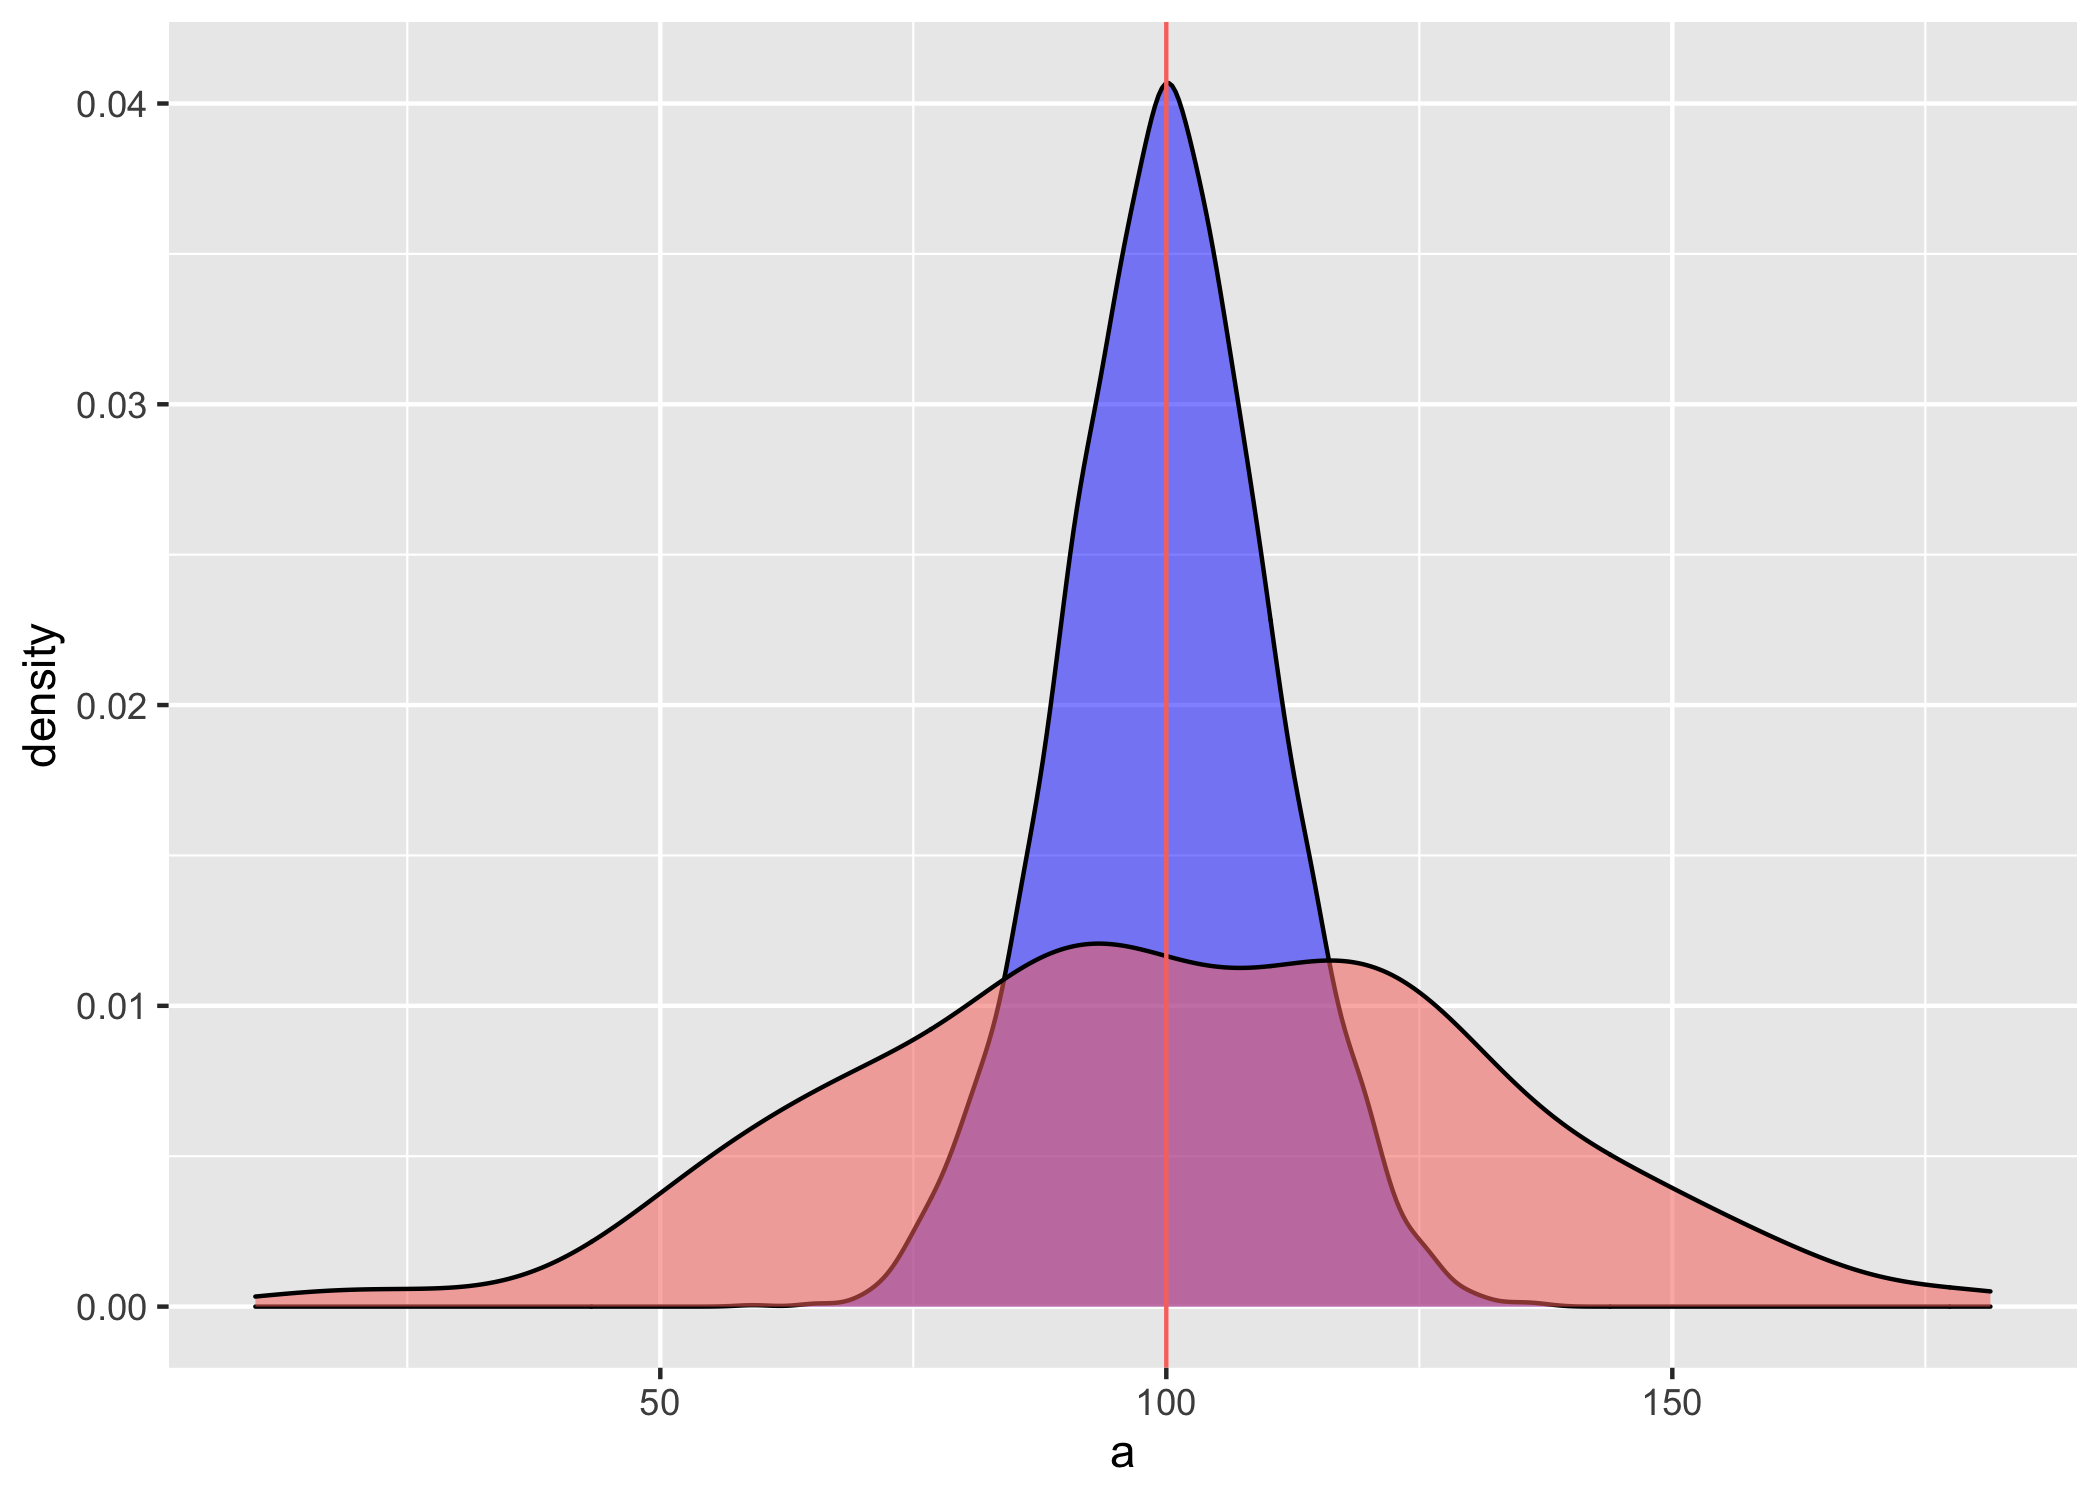
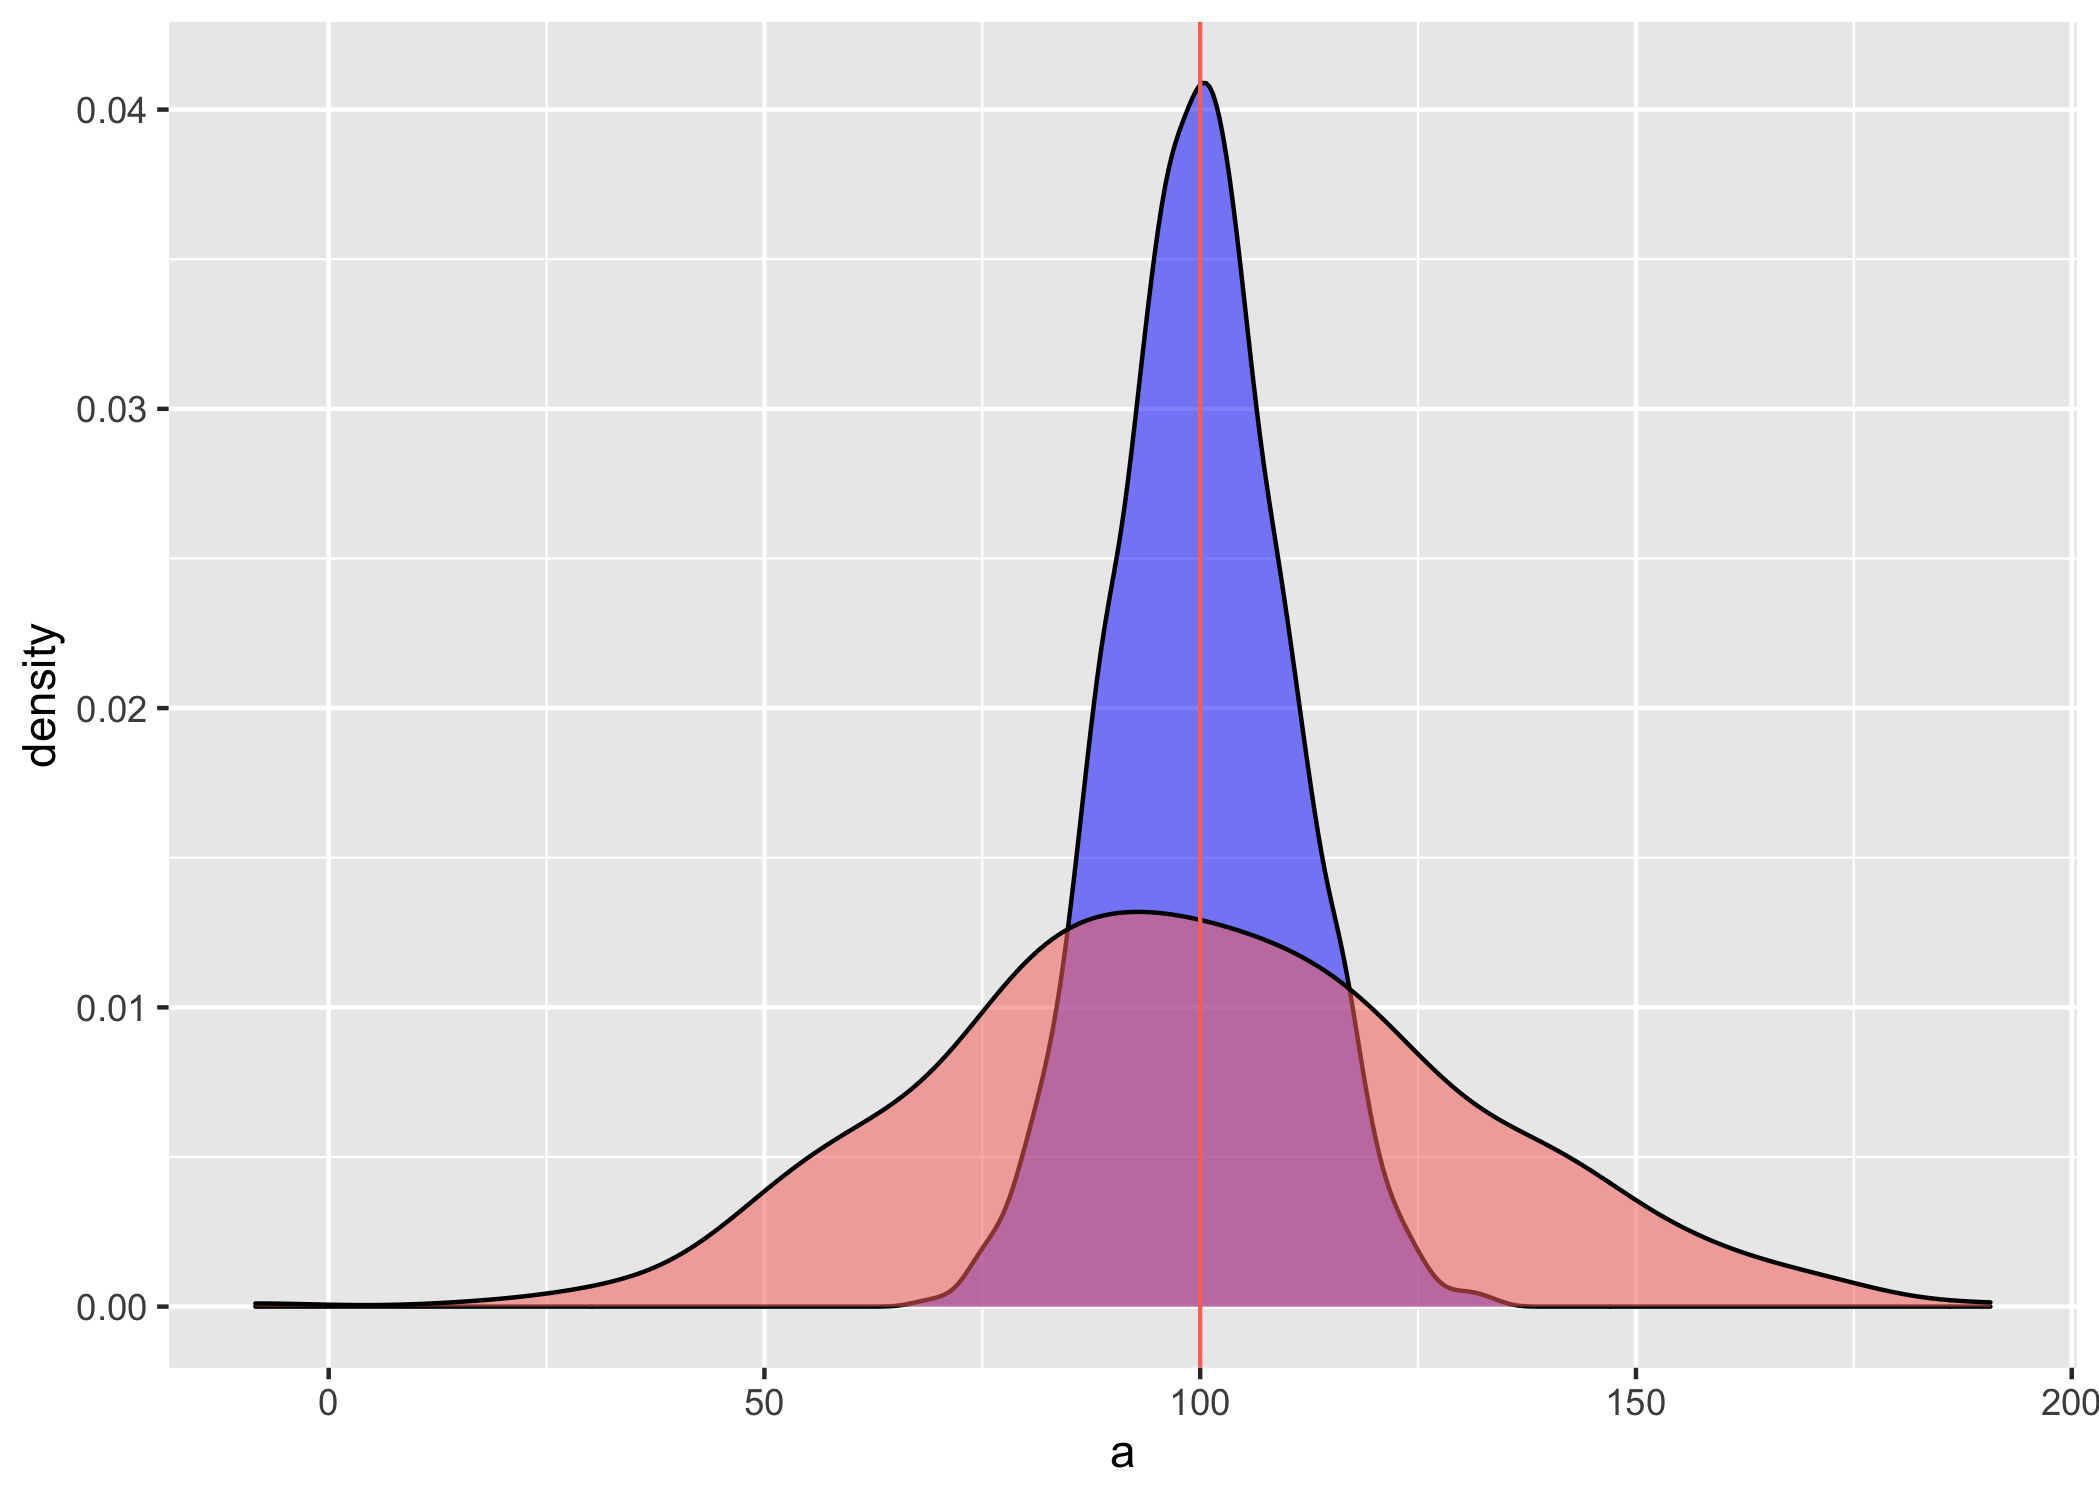
T4

diff --git a/T4_Medidas_dispersión.html b/T4_Medidas_dispersión.html
@@ -506,7 +506,7 @@ library(tidyverse)</code></pre>
 <div id="vizualizando-la-dispersión" class="section level1">
 <h1>Vizualizando la dispersión</h1>
 <p>Primero miramos un gráfico donde tenemos datos donde el promedio es igual pero la dispersiones son diferentes. Lo que uno observa es que en la distribución azul los datos son más similares uno al otro y la distribución roja los valores son más diferentes. En el primer conjunto de datos se usa 5000 valores con un promedio de 100 y una desviación estándar de 10, en el segundo se produce un conjunto de datos de 500 valores con un promedio de 100 y una desviación estándar de 30.</p>
-<pre class="r"><code>set.seed(869870) # esto es para que los valores se queda igual a cada vez que se corre el analisis
+<pre class="r"><code>set.seed(8690) # esto es para que los valores se queda igual a cada vez que se corre el analisis
 a=rnorm(5000, 100, 10)
 a=data.frame(a)
 b=rnorm(500, 100, 30)
@@ -529,9 +529,9 @@ El proceso de Investigación
 <h1>El rango</h1>
 <p>El rango son los valores mínimo y valor máximo de un conjunto de datos. Se usa la función <strong>range()</strong>. Usamos los dos conjuntos de datos ya creado anteriomente para visualizar los rangos de la distribuciones de los gráficos. Lo que uno observa es que el valor mínimo del primer conjunto de datos es 59.17 y el máximo es 137.12. Para el segundo conjunto de datos el valor mínimo es 1.86 y el máximo es 203.88.</p>
 <pre class="r"><code>range(a$a)</code></pre>
-<pre><code>## [1]  59.17397 137.11983</code></pre>
+<pre><code>## [1]  67.77126 133.87095</code></pre>
 <pre class="r"><code>range(b$b)</code></pre>
-<pre><code>## [1]   9.987169 181.432611</code></pre>
+<pre><code>## [1]  -8.410994 190.670576</code></pre>
 <div id="la-varianza" class="section level2">
 <h2>La varianza</h2>
 <p>Los pasos para calcular la varianza son los siguientes</p>
@@ -731,9 +731,9 @@ quantile(dat, type =1)</code></pre>
 es_b= sd(b$b)/sqrt(length(b$b))
 
 es_a</code></pre>
-<pre><code>## [1] 0.1444401</code></pre>
+<pre><code>## [1] 0.1405601</code></pre>
 <pre class="r"><code>es_b</code></pre>
-<pre><code>## [1] 1.363112</code></pre>
+<pre><code>## [1] 1.32255</code></pre>
 <hr />
 </div>
 <div id="el-intervalo-de-confianza-de-95-del-promedio" class="section level1">
@@ -745,17 +745,17 @@ es_a</code></pre>
 Limite_superior_a=mean(a$a)+(es_a+1.96)
 
 Limite_inferior_a</code></pre>
-<pre><code>## [1] 97.97153</code></pre>
+<pre><code>## [1] 97.90828</code></pre>
 <pre class="r"><code>Limite_superior_a</code></pre>
-<pre><code>## [1] 102.1804</code></pre>
+<pre><code>## [1] 102.1094</code></pre>
 <pre class="r"><code>Limite_inferior_b=mean(b$b)-(es_b+1.96)
 Limite_superior_b=mean(b$b)+(es_b+1.96)
 
 mean_b=mean(b$b)
 Limite_inferior_b</code></pre>
-<pre><code>## [1] 97.689</code></pre>
+<pre><code>## [1] 96.19911</code></pre>
 <pre class="r"><code>Limite_superior_b</code></pre>
-<pre><code>## [1] 104.3352</code></pre>
+<pre><code>## [1] 102.7642</code></pre>
 <p>Visualizando el intervalos de confianza del promedio. Lo que uno observa es que primero el promedio puede ser en localidad diferentes porque el conjunto de datos fue menos en el segundo gráfico. Además vemos que el intervalo de 95% de confianza del promedio en el segundo es más amplio.</p>
 <pre class="r"><code>CIa=ggplot(a, aes(a))+
   geom_density(fill=&quot;blue&quot;, alpha=.5)+
@@ -773,8 +773,8 @@ CIb=ggplot(b, aes(b))+
   geom_vline(aes(xintercept = Limite_superior_b), colour=&quot;black&quot;)+
   xlim(90,110)
 
-grid.arrange(CIa,CIb, ncol=2)</code></pre>
-<p><img src="T4_Medidas_dispersio%CC%81n_files/figure-html/unnamed-chunk-14-1.png" width="50%" /></p>
+grid.arrange(CIa,CIb, ncol=1)</code></pre>
+<p><img src="T4_Medidas_dispersio%CC%81n_files/figure-html/unnamed-chunk-14-1.png" width="100%" /></p>
 <hr />
 <div id="el-intervalos-de-confianza-de-los-datos" class="section level2">
 <h2>El intervalos de confianza de los datos</h2>
@@ -885,7 +885,7 @@ gt(head(Alturas_Humanos))</code></pre>
   font-family: -apple-system, BlinkMacSystemFont, 'Segoe UI', Roboto, Oxygen, Ubuntu, Cantarell, 'Helvetica Neue', 'Fira Sans', 'Droid Sans', Arial, sans-serif;
 }
 
-#webfapcfvz .gt_table {
+#fzkzxgcbyu .gt_table {
   display: table;
   border-collapse: collapse;
   margin-left: auto;
@@ -908,7 +908,7 @@ gt(head(Alturas_Humanos))</code></pre>
   border-left-color: #D3D3D3;
 }
 
-#webfapcfvz .gt_heading {
+#fzkzxgcbyu .gt_heading {
   background-color: #FFFFFF;
   text-align: center;
   border-bottom-color: #FFFFFF;
@@ -920,7 +920,7 @@ gt(head(Alturas_Humanos))</code></pre>
   border-right-color: #D3D3D3;
 }
 
-#webfapcfvz .gt_title {
+#fzkzxgcbyu .gt_title {
   color: #333333;
   font-size: 125%;
   font-weight: initial;
@@ -930,7 +930,7 @@ gt(head(Alturas_Humanos))</code></pre>
   border-bottom-width: 0;
 }
 
-#webfapcfvz .gt_subtitle {
+#fzkzxgcbyu .gt_subtitle {
   color: #333333;
   font-size: 85%;
   font-weight: initial;
@@ -940,13 +940,13 @@ gt(head(Alturas_Humanos))</code></pre>
   border-top-width: 0;
 }
 
-#webfapcfvz .gt_bottom_border {
+#fzkzxgcbyu .gt_bottom_border {
   border-bottom-style: solid;
   border-bottom-width: 2px;
   border-bottom-color: #D3D3D3;
 }
 
-#webfapcfvz .gt_col_headings {
+#fzkzxgcbyu .gt_col_headings {
   border-top-style: solid;
   border-top-width: 2px;
   border-top-color: #D3D3D3;
@@ -961,7 +961,7 @@ gt(head(Alturas_Humanos))</code></pre>
   border-right-color: #D3D3D3;
 }
 
-#webfapcfvz .gt_col_heading {
+#fzkzxgcbyu .gt_col_heading {
   color: #333333;
   background-color: #FFFFFF;
   font-size: 100%;
@@ -981,7 +981,7 @@ gt(head(Alturas_Humanos))</code></pre>
   overflow-x: hidden;
 }
 
-#webfapcfvz .gt_column_spanner_outer {
+#fzkzxgcbyu .gt_column_spanner_outer {
   color: #333333;
   background-color: #FFFFFF;
   font-size: 100%;
@@ -993,15 +993,15 @@ gt(head(Alturas_Humanos))</code></pre>
   padding-right: 4px;
 }
 
-#webfapcfvz .gt_column_spanner_outer:first-child {
+#fzkzxgcbyu .gt_column_spanner_outer:first-child {
   padding-left: 0;
 }
 
-#webfapcfvz .gt_column_spanner_outer:last-child {
+#fzkzxgcbyu .gt_column_spanner_outer:last-child {
   padding-right: 0;
 }
 
-#webfapcfvz .gt_column_spanner {
+#fzkzxgcbyu .gt_column_spanner {
   border-bottom-style: solid;
   border-bottom-width: 2px;
   border-bottom-color: #D3D3D3;
@@ -1013,7 +1013,7 @@ gt(head(Alturas_Humanos))</code></pre>
   width: 100%;
 }
 
-#webfapcfvz .gt_group_heading {
+#fzkzxgcbyu .gt_group_heading {
   padding: 8px;
   color: #333333;
   background-color: #FFFFFF;
@@ -1035,7 +1035,7 @@ gt(head(Alturas_Humanos))</code></pre>
   vertical-align: middle;
 }
 
-#webfapcfvz .gt_empty_group_heading {
+#fzkzxgcbyu .gt_empty_group_heading {
   padding: 0.5px;
   color: #333333;
   background-color: #FFFFFF;
@@ -1050,19 +1050,19 @@ gt(head(Alturas_Humanos))</code></pre>
   vertical-align: middle;
 }
 
-#webfapcfvz .gt_striped {
+#fzkzxgcbyu .gt_striped {
   background-color: rgba(128, 128, 128, 0.05);
 }
 
-#webfapcfvz .gt_from_md > :first-child {
+#fzkzxgcbyu .gt_from_md > :first-child {
   margin-top: 0;
 }
 
-#webfapcfvz .gt_from_md > :last-child {
+#fzkzxgcbyu .gt_from_md > :last-child {
   margin-bottom: 0;
 }
 
-#webfapcfvz .gt_row {
+#fzkzxgcbyu .gt_row {
   padding-top: 8px;
   padding-bottom: 8px;
   padding-left: 5px;
@@ -1081,7 +1081,7 @@ gt(head(Alturas_Humanos))</code></pre>
   overflow-x: hidden;
 }
 
-#webfapcfvz .gt_stub {
+#fzkzxgcbyu .gt_stub {
   color: #333333;
   background-color: #FFFFFF;
   font-size: 100%;
@@ -1093,7 +1093,7 @@ gt(head(Alturas_Humanos))</code></pre>
   padding-left: 12px;
 }
 
-#webfapcfvz .gt_summary_row {
+#fzkzxgcbyu .gt_summary_row {
   color: #333333;
   background-color: #FFFFFF;
   text-transform: inherit;
@@ -1103,7 +1103,7 @@ gt(head(Alturas_Humanos))</code></pre>
   padding-right: 5px;
 }
 
-#webfapcfvz .gt_first_summary_row {
+#fzkzxgcbyu .gt_first_summary_row {
   padding-top: 8px;
   padding-bottom: 8px;
   padding-left: 5px;
@@ -1113,7 +1113,7 @@ gt(head(Alturas_Humanos))</code></pre>
   border-top-color: #D3D3D3;
 }
 
-#webfapcfvz .gt_grand_summary_row {
+#fzkzxgcbyu .gt_grand_summary_row {
   color: #333333;
   background-color: #FFFFFF;
   text-transform: inherit;
@@ -1123,7 +1123,7 @@ gt(head(Alturas_Humanos))</code></pre>
   padding-right: 5px;
 }
 
-#webfapcfvz .gt_first_grand_summary_row {
+#fzkzxgcbyu .gt_first_grand_summary_row {
   padding-top: 8px;
   padding-bottom: 8px;
   padding-left: 5px;
@@ -1133,7 +1133,7 @@ gt(head(Alturas_Humanos))</code></pre>
   border-top-color: #D3D3D3;
 }
 
-#webfapcfvz .gt_table_body {
+#fzkzxgcbyu .gt_table_body {
   border-top-style: solid;
   border-top-width: 2px;
   border-top-color: #D3D3D3;
@@ -1142,7 +1142,7 @@ gt(head(Alturas_Humanos))</code></pre>
   border-bottom-color: #D3D3D3;
 }
 
-#webfapcfvz .gt_footnotes {
+#fzkzxgcbyu .gt_footnotes {
   color: #333333;
   background-color: #FFFFFF;
   border-bottom-style: none;
@@ -1156,13 +1156,13 @@ gt(head(Alturas_Humanos))</code></pre>
   border-right-color: #D3D3D3;
 }
 
-#webfapcfvz .gt_footnote {
+#fzkzxgcbyu .gt_footnote {
   margin: 0px;
   font-size: 90%;
   padding: 4px;
 }
 
-#webfapcfvz .gt_sourcenotes {
+#fzkzxgcbyu .gt_sourcenotes {
   color: #333333;
   background-color: #FFFFFF;
   border-bottom-style: none;
@@ -1176,46 +1176,46 @@ gt(head(Alturas_Humanos))</code></pre>
   border-right-color: #D3D3D3;
 }
 
-#webfapcfvz .gt_sourcenote {
+#fzkzxgcbyu .gt_sourcenote {
   font-size: 90%;
   padding: 4px;
 }
 
-#webfapcfvz .gt_left {
+#fzkzxgcbyu .gt_left {
   text-align: left;
 }
 
-#webfapcfvz .gt_center {
+#fzkzxgcbyu .gt_center {
   text-align: center;
 }
 
-#webfapcfvz .gt_right {
+#fzkzxgcbyu .gt_right {
   text-align: right;
   font-variant-numeric: tabular-nums;
 }
 
-#webfapcfvz .gt_font_normal {
+#fzkzxgcbyu .gt_font_normal {
   font-weight: normal;
 }
 
-#webfapcfvz .gt_font_bold {
+#fzkzxgcbyu .gt_font_bold {
   font-weight: bold;
 }
 
-#webfapcfvz .gt_font_italic {
+#fzkzxgcbyu .gt_font_italic {
   font-style: italic;
 }
 
-#webfapcfvz .gt_super {
+#fzkzxgcbyu .gt_super {
   font-size: 65%;
 }
 
-#webfapcfvz .gt_footnote_marks {
+#fzkzxgcbyu .gt_footnote_marks {
   font-style: italic;
   font-size: 65%;
 }
 </style>
-<div id="webfapcfvz" style="overflow-x:auto;overflow-y:auto;width:auto;height:auto;"><table class="gt_table">
+<div id="fzkzxgcbyu" style="overflow-x:auto;overflow-y:auto;width:auto;height:auto;"><table class="gt_table">
   
   <thead class="gt_col_headings">
     <tr>
